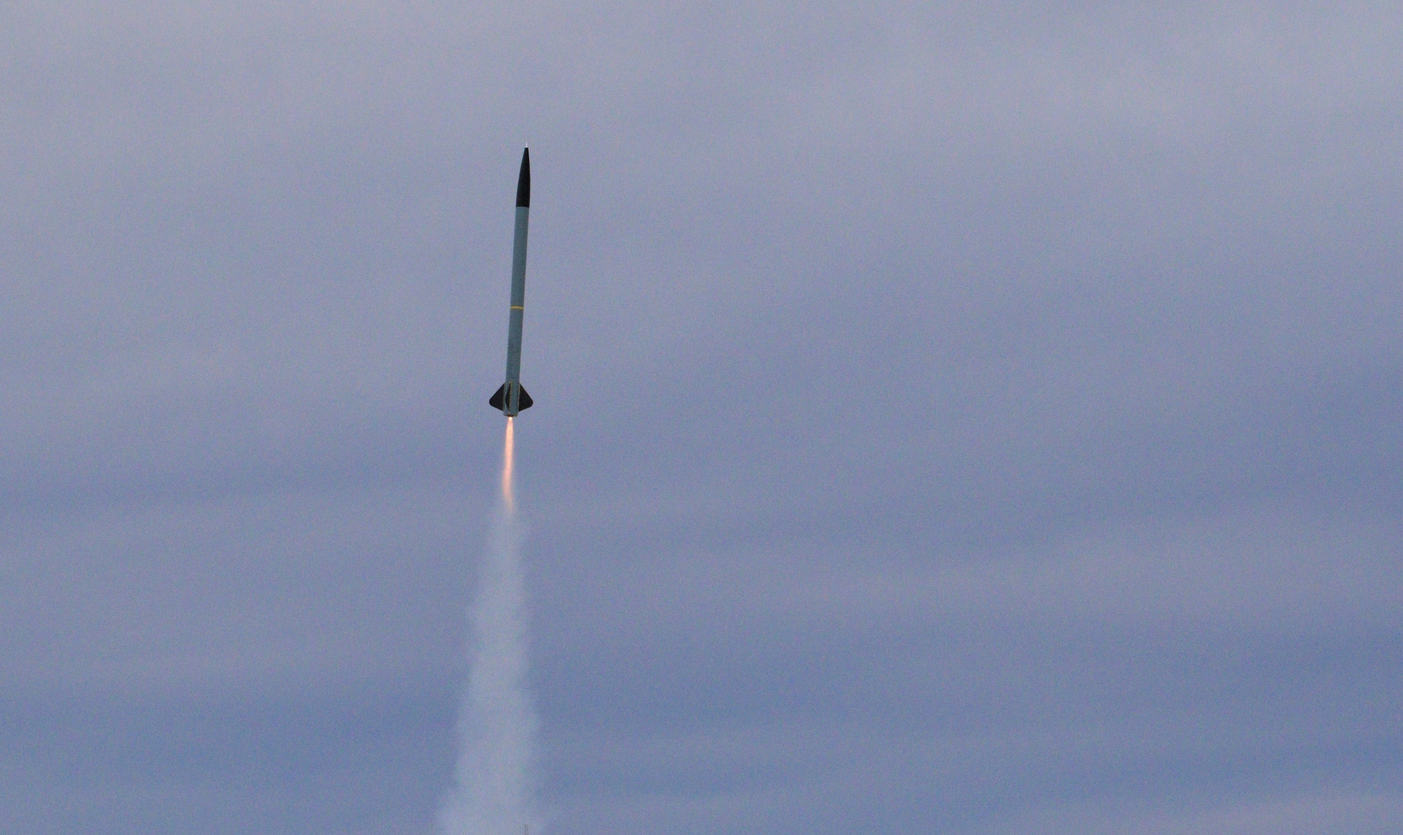
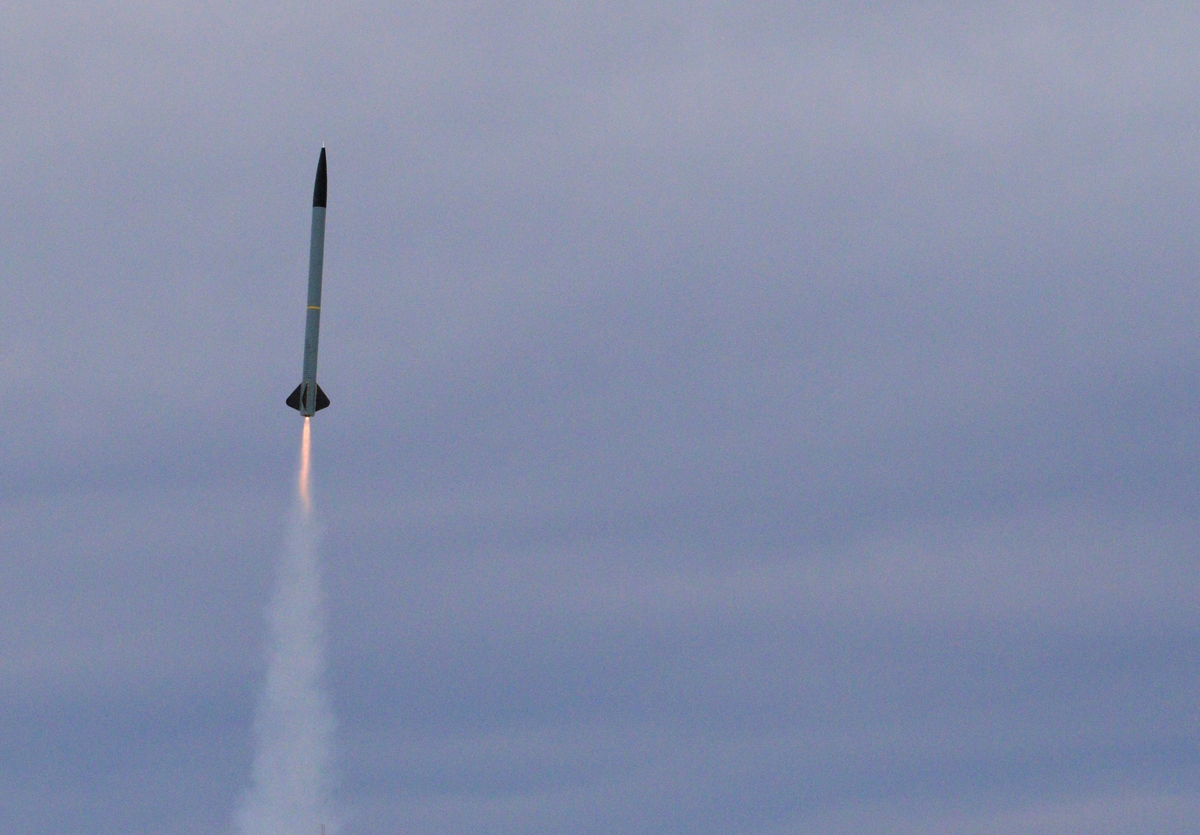
New Front Page

diff --git a/index.html b/index.html
@@ -10,7 +10,7 @@
 </head>
 
 <body>
-    <div class="navbar">
+    <div class="navbar sticky-nav">
         <a href="index.html" id="brand">
             <h1 style="margin: 0 30px;">Christian M. Schrader</h1>
         </a>
@@ -22,22 +22,69 @@
     </div>
 
     <!-- CONTENT BEGIN -->
+    <!-- Welcome Banner -->
+    <div class="welcome">
+        <div class="large-br"></div>
+        <h1 class="welcome-text">Christian M. Schrader</h1>
+        <h1 class="welcome-caption">Aerospace Engineer and Computer Scientist</h1>
+        <div class="giant-br"></div>
+    </div>
+    <div class="tiny-br" style="box-shadow: 0px -10px 15px #22222233;" />
+    <hr class="pill">
+    <p class="caption">Pictured: The second test flight of <a href="/usli.html">USLI's</a> 2019 full scale rocket,
+        Februrary 2019.</p>
     <!-- Intro -->
     <div class="large-br" />
     <span class=>
         <img src="img/profesional.jpg" alt="Portrait Photo" class="img-left circle">
-        <h1 class="title">Christian Max Schrader</h1>
+        <h1 class="title">Christian M. Schrader</h1>
         <h3 class="subtitle">Aerospace Engineer and Computer Scientist</h3>
         <h5 class="subtitle">Worcester Polytechnic Institue, Class of 2021</h5>
-        <p>I'm Senior at WPI majoring in Aerospace Engineering with a minor in Computer Science. Over the years, I've
-            become a creative engineer and effective leader by expanding my skills through a variety of positions and
-            experiences. </p>
+        <p>I'm Senior at WPI majoring in Aerospace Engineering with a minor in Computer Science. I'm a creative engineer
+            and effective leader with a variety of skills gained through varied positions and experiences.</p>
     </span>
-    <!-- <button style="margin-left: 40%;">What I'm Up To</button> -->
 
-    <!-- Highlights -->
+    <!-- Explore -->
     <div class="medium-br" />
-    <h1>Experience Highlights</h1>
+    <h2>Get to Know Me</h2>
+    <p>Feel free either explore the pages linked below and on the header or
+        search for specific skills and experiences. If you have questions, opportunities, or just want to talk, you can
+        email me using the contact button below or the email button on the footer.</p>
+    <div style="text-align: center;">
+        <a class="link-btn" style="display: inline; align-content: center;" href="/skills.html">Skills</a>
+        <a class="link-btn" style="display: inline; align-content: center;" href="/experience.html">Experience</a>
+        <a class="link-btn" style="display: inline; align-content: center;" href="/education.html">Education</a>
+        <a class="link-btn" style="display: inline; align-content: center;" href="/resume.html">Resume</a>
+        <a class="link-btn" style="display: inline; align-content: center;" href="mailto:cms@cmschrader.com"
+            target="_blank">Contact</a>
+    </div>
+
+    <!-- What I'm up to -->
+    <div class="small-br" />
+    <span>
+        <h2 class="title">What I'm Doing Now <i style="font-size: 10px; margin-top: 0; padding-top: 0; color: #666;">
+                updated
+                7/1/2020</i></h2>
+    </span>
+    <h3>Work</h3>
+    <p>I am currently employed as a Technical Intern at GE Aviation. Due to Covid-19, GE Aviation interns are working
+        from home. I don't have too many details to give right now, but I will add them when I can. Beyond the summer, I
+        am currently looking for an Aerospace Internship for the summer of 2021.</p>
+    <h3>School</h3>
+    <p>I am not currently taking any summer courses.
+        Extraciricular wise, I am currently serving in three officer positions, Public Relations Officer for the
+        WPI Student Branch of <a href="/aiaa.html">AIAA</a> and Documentation
+        Officer and Avionics for <a href="/usli.html">USLI</a>. I am working in both organizations to plan for our
+        return to campus and to ensure that we're able to opperate in compliance with WPI's Covid-19 safety rules.
+    </p>
+    <h3>Personal Projects</h3>
+    <p>
+        I've resently started working on building a dual deploy flight computer for <a href="/hpr.html">high power
+            rockets</a>. I've recently completed basic diagnostic tests on the first prototype. While I don't have too
+        many details to share yet, you can see what I've learned to do this on the <a href="/pcb-design.html">PCB
+            Design</a> page.
+    </p>
+    <!-- <h1>Experience Highlights</h1>
     <div class="flex-grid">
         <div class="flex-card">
             <img src="img/FireBot.jpg" alt="FireBot" class="img-left small circle">
@@ -46,7 +93,6 @@
                 <li><a href="#" class="link">GE Aviation, Technical Intern</a></li>
                 <li><a href="#" class="link">NASA Ames, Aserospace Intern and Group Lead</a></li>
                 <li><a href="#" class="link">Busek Co. Inc, Aerospace Engineering Intern</a></li>
-                <!-- <button>See More</button> -->
             </span>
         </div>
         <div class="flex-card">
@@ -56,7 +102,6 @@
                 <li><a href="#" class="link">Captain and Cofounder of WPI USLI</a></li>
                 <li><a href="#" class="link">Level 1 High Power Rocketry Certification</a></li>
                 <li><a href="#" class="link">Battle of the Rockets</a></li>
-                <!-- <button>See More</button> -->
             </span>
         </div>
         <div class="flex-card">
@@ -66,7 +111,6 @@
                 <li><a href="#" class="link">Software Engineering, Agile, and Git</a></li>
                 <li><a href="#" class="link">Embedded Systems, C and C++</a></li>
                 <li><a href="#" class="link">Python and MATLAB</a></li>
-                <!-- <button>See More</button> -->
             </span>
         </div>
         <div class="flex-card">
@@ -76,33 +120,14 @@
                 <li><a href="#" class="link">Eagle Scout</a></li>
                 <li><a href="#" class="link">Member of Sigma Gamma Tau</a></li>
                 <li><a href="#" class="link">Dean's List, WPI</a></li>
-                <!-- <button>See More</button> -->
             </span>
         </div>
-    </div>
-
-    <!-- What I'm up to -->
-    <!-- <div class="small-br" />
-    <h1 class="title">What I'm Doing Now.</h1>
-    <h3>Work</h3>
-    <p>I'm currently looking for an Aerospace Internship for the summer of 2021.</p>
-    <p>Right now, I'm working as an intern for GE Aviation.</p>
-    <h3>Extra Ciriculars</h3>
-    <p>
-        Outside of my usual work, I am currently serving in two officer positions, Public Relations Officer of the WPI
-        Student Branch of <abbr title="American Institute of Aeronautics and Astronautics">AIAA</abbr> and Documentation
-        Officer of WPI <abbr title="University Student Launch Initiative">USLI</abbr>.
-    </p>
-    <h3>Personal Projects</h3>
-    <p>
-        I've resently started working on building a dual deploy flight computer. Currenlty the project is very early on
-        so I've been familiarizing myself with embeded hardware design and RTOS.
-    </p>-->
+    </div> -->
     <div class="medium-br" />
     <!-- CONTENT END -->
 
     <!-- Footer -->
-    <footer class="sticky">
+    <footer>
         <div class="tiny-br" />
         <span class="foot">
             <a href="https://www.linkedin.com/in/c-m-schrader" target="_blank">

diff --git a/style.css b/style.css
@@ -109,6 +109,10 @@ p, h1, h2, h3, h4, h5, h6 {
     max-width: 30%;
 }
 
+.giant-br {
+    padding-top: 42vh;
+}
+
 .large-br {
     padding-top: 100px;
 }
@@ -138,6 +142,47 @@ p, h1, h2, h3, h4, h5, h6 {
 .main {
     text-align: center;
     font-size: 4rem;
+}
+
+.welcome {
+    background-size: cover; 
+    background-image: url('img/Rocket Test Launch.jpg'); 
+    margin:0;
+    background-attachment: fixed;
+    /* background-position: center; */
+    background-repeat: no-repeat;
+    background-size: cover;
+}
+
+.welcome-text {
+    margin-left: 30%;
+    padding-top: 7%;
+    margin-right: 0;
+    font-size: 5rem;
+    max-width: 9999%;
+    color: #f2f2f2;
+    text-shadow: 0px 10px 15px #22222233;
+    position: static;
+}
+
+.welcome-caption {
+    margin-left: 30%;
+    padding-top: 10px;
+    margin-right: 0;
+    font-size: 3rem;
+    max-width: 9999%;
+    color: #f2f2f2;
+    text-shadow: 0px 10px 15px #22222233;
+    position: static;
+}
+
+.pill {
+    width: 30px;
+    height: 5px;
+    background-color: #666;
+    border-color: #666;
+    border-radius: 30px;
+    border-width: 0;
 }
 
 /* Flex Grid */
@@ -257,6 +302,12 @@ footer {
     left: 0;
     bottom: 0;
     width: 96%;
+}
+
+.sticky-nav {
+    position: -webkit-sticky; /* Safari */
+    position: sticky;
+    top: 0;
 }
 
 .foot span {
